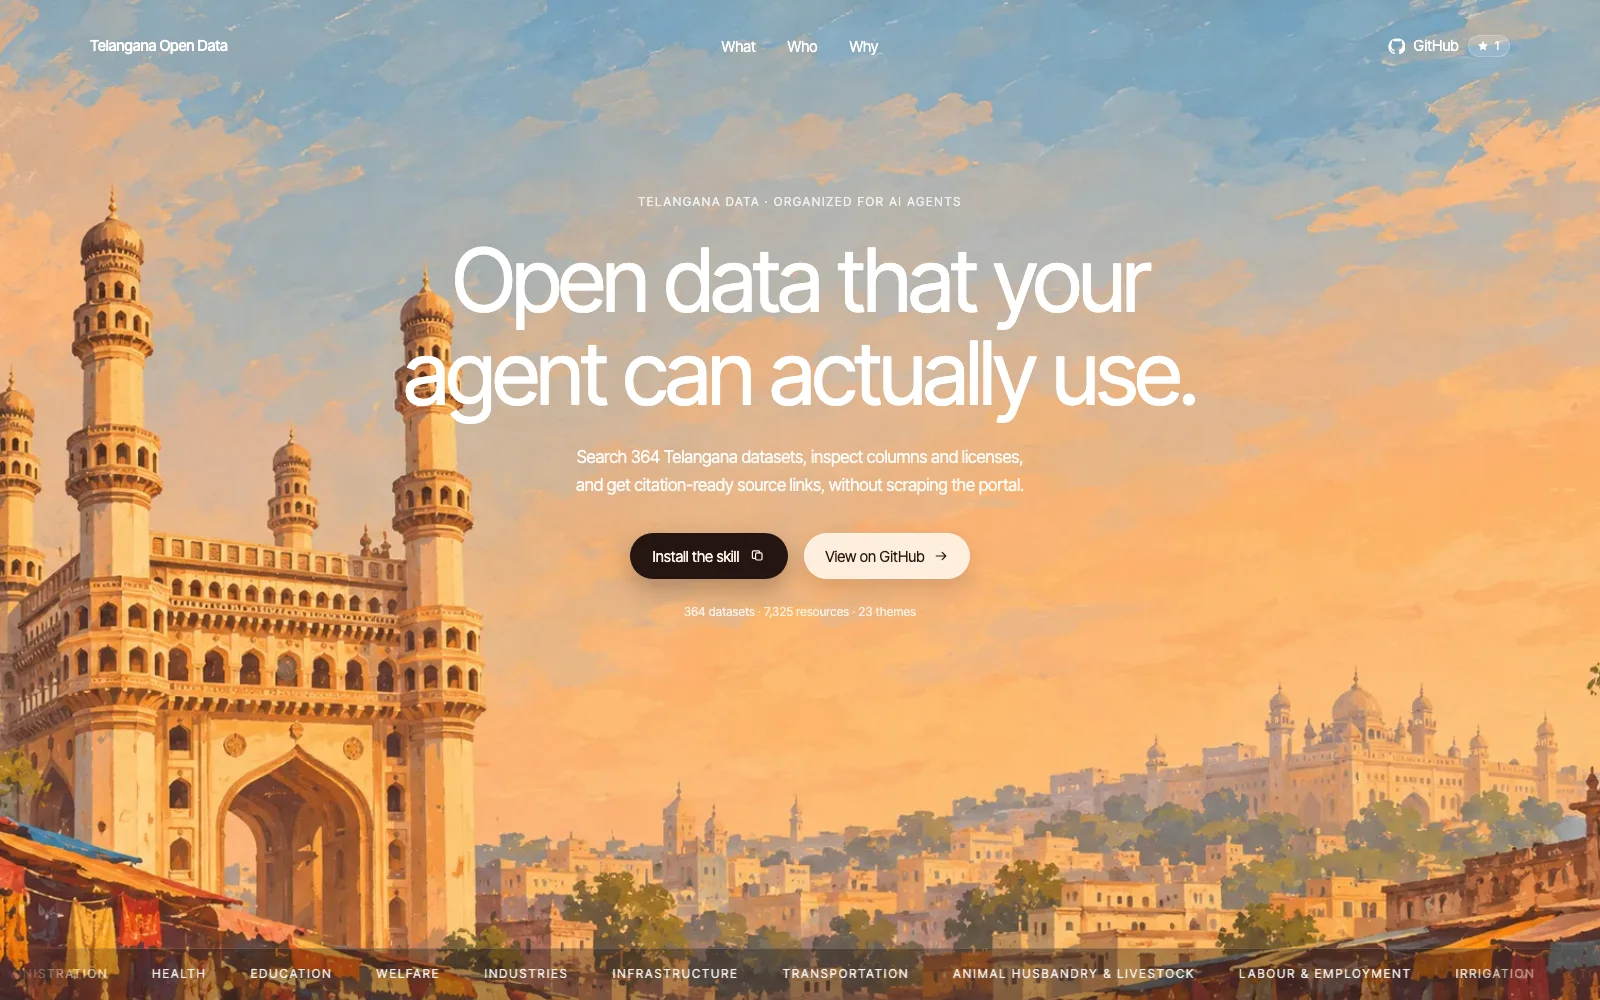
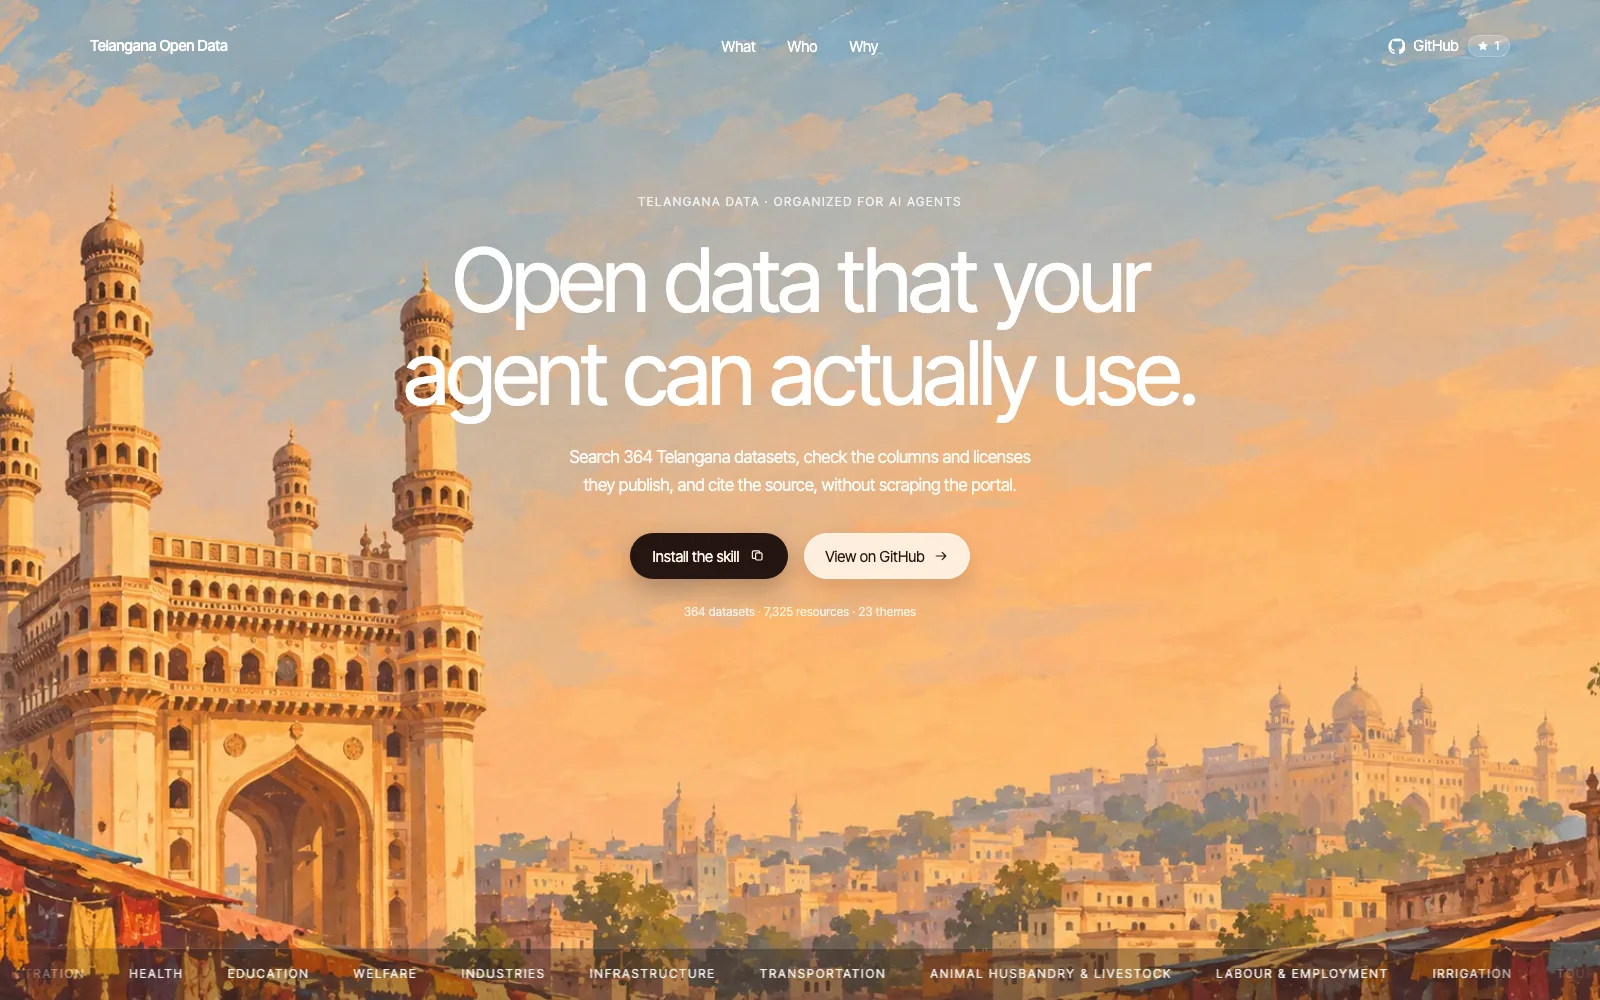
copy: make the hero claim match the catalog
364 datasets is exact, but 21 have no column block, 2 have no source
link, and licenses are often unspecified, so the hero now says what the
index can actually show. README screenshot refreshed.

Changed region(s): [[0.0938, 0.961, 0.9688, 0.992], [0.3438, 0.434, 0.6562, 0.496], [0.0312, 0.961, 0.0625, 0.992]]

diff --git a/site/index.html b/site/index.html
@@ -7,7 +7,7 @@
     <title>Telangana Open Data</title>
     <meta
       name="description"
-      content="A citation-ready index of 364 Telangana datasets, built for AI agents. Search columns, licenses, and source links without scraping the portal."
+      content="A citation-ready index of 364 Telangana datasets, built for AI agents. Check published columns and licenses, and cite the source without scraping the portal."
     />
     <link rel="icon" type="image/svg+xml" href="/favicon.svg?v=2" />
     <link rel="apple-touch-icon" href="/apple-touch-icon.png" />

diff --git a/site/src/App.tsx b/site/src/App.tsx
@@ -273,8 +273,8 @@ export default function App() {
         </h1>
 
         <p className="intro">
-          Search 364 Telangana datasets, inspect columns and licenses, and get
-          citation-ready source links, without scraping the portal.
+          Search 364 Telangana datasets, check the columns and licenses they
+          publish, and cite the source, without scraping the portal.
         </p>
 
         <div className="actions">

diff --git a/README.md b/README.md
@@ -1,6 +1,6 @@
 # Telangana Open Data Skill
 
-[![Telangana Open Data landing page: the Charminar at golden hour behind the headline "Open data that your agent can actually use", with install and GitHub buttons](assets/landing-page.webp?v=3)](https://hemanth090.github.io/telangana-open-data-catalog/)
+[![Telangana Open Data landing page: the Charminar at golden hour behind the headline "Open data that your agent can actually use", with install and GitHub buttons](assets/landing-page.webp?v=4)](https://hemanth090.github.io/telangana-open-data-catalog/)
 
 > A local, citation-friendly guide to Telangana's open data, built for AI agents and the people who work with them.
 
